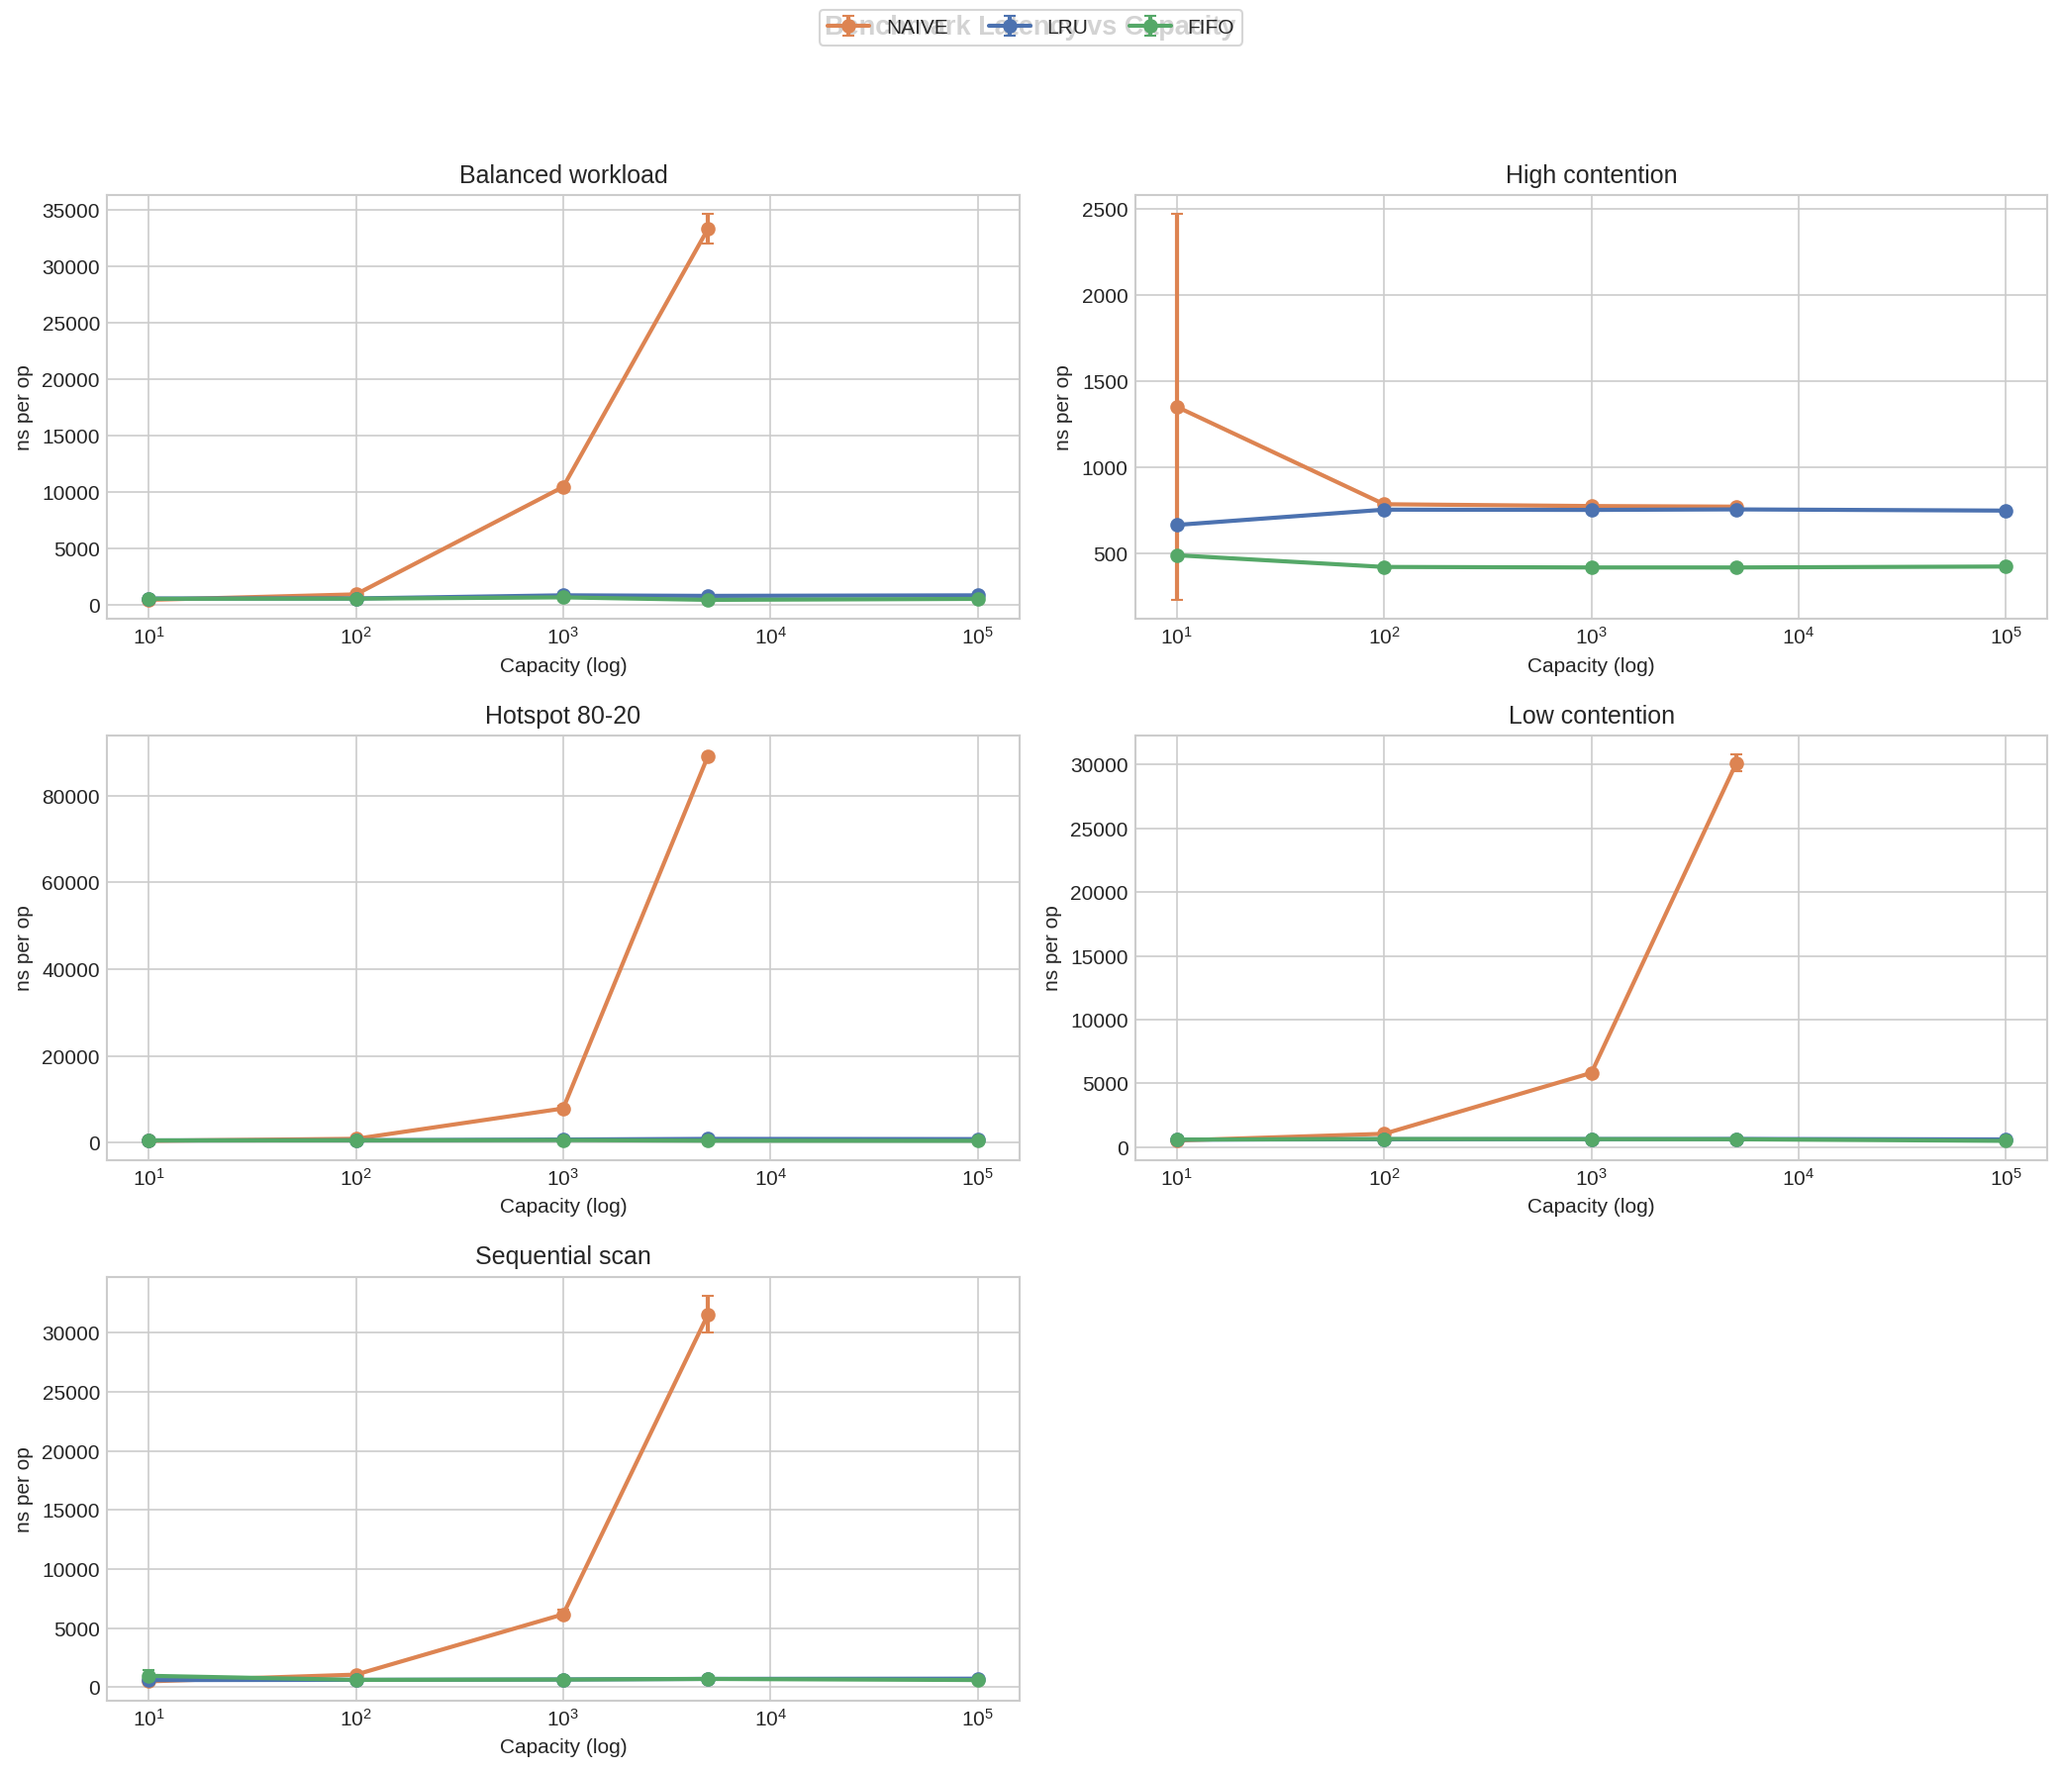
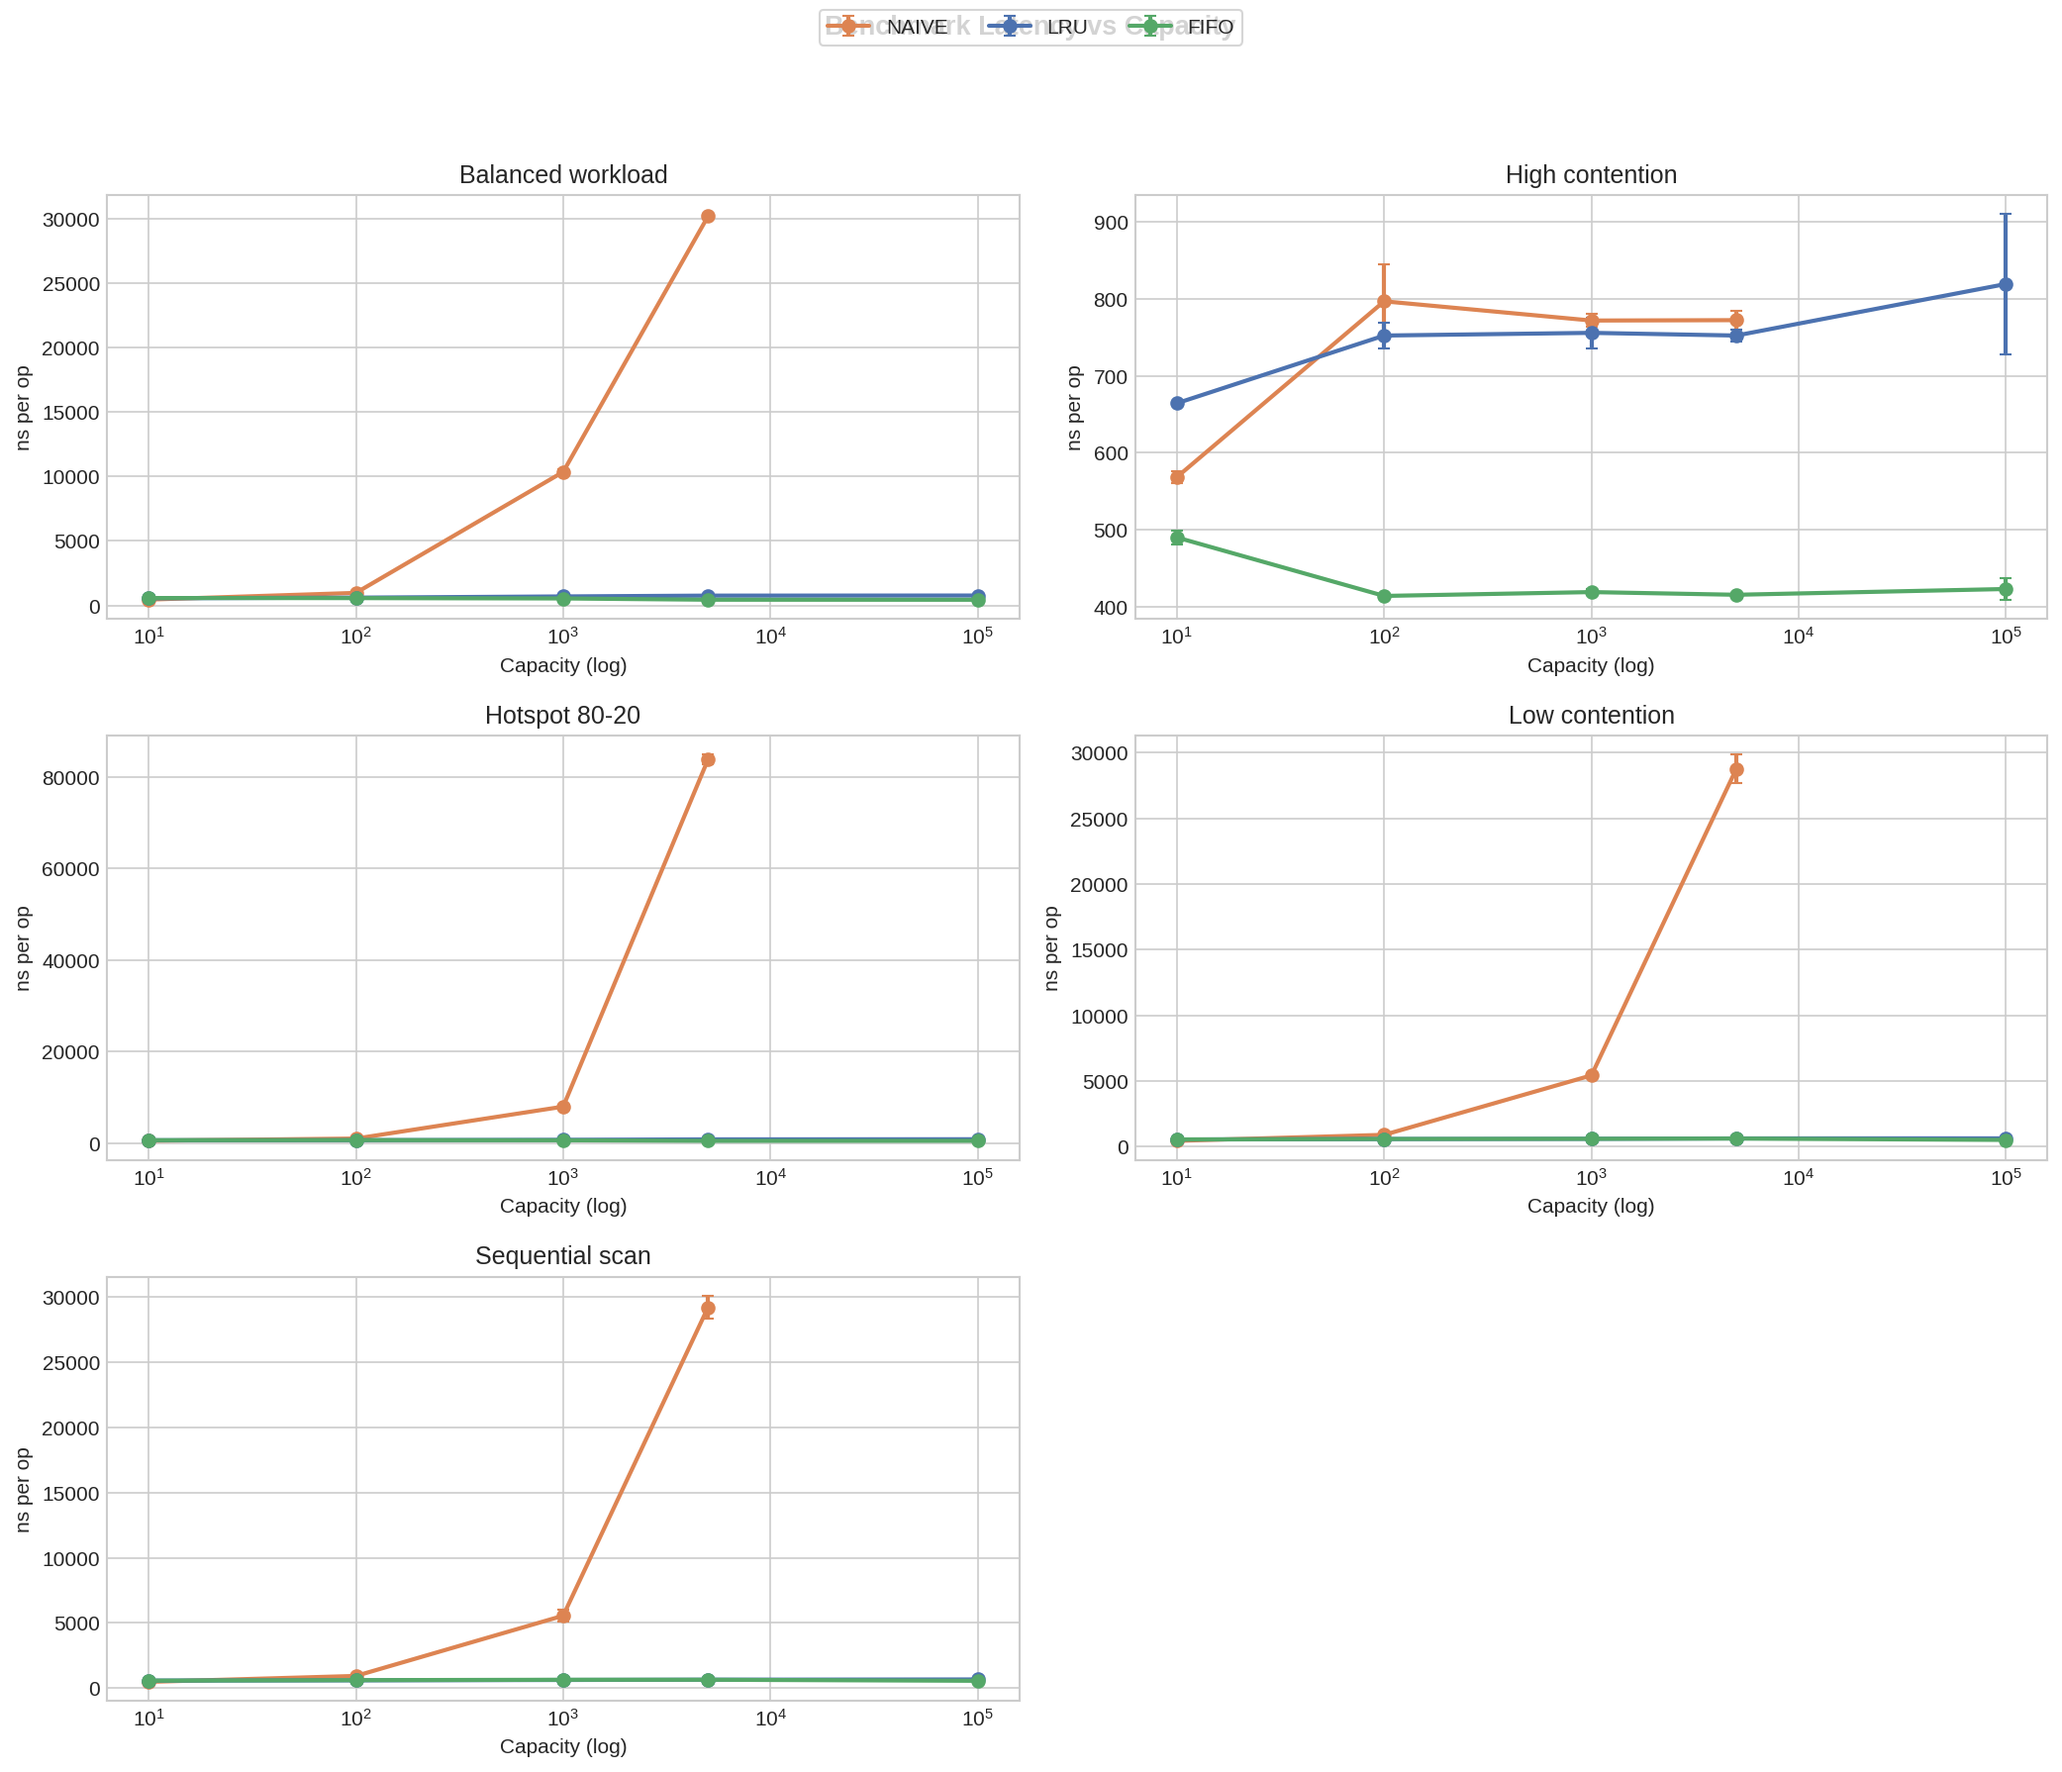
update page size

diff --git a/replacement-strategies/include/test-data.h b/replacement-strategies/include/test-data.h
@@ -1,6 +1,6 @@
 #pragma once
 
-inline const int PAGE_SIZE = 1024;
+inline const int PAGE_SIZE = 4096;
 inline const char *TEST_STRING =
[2 lines of base64/hex data omitted]
